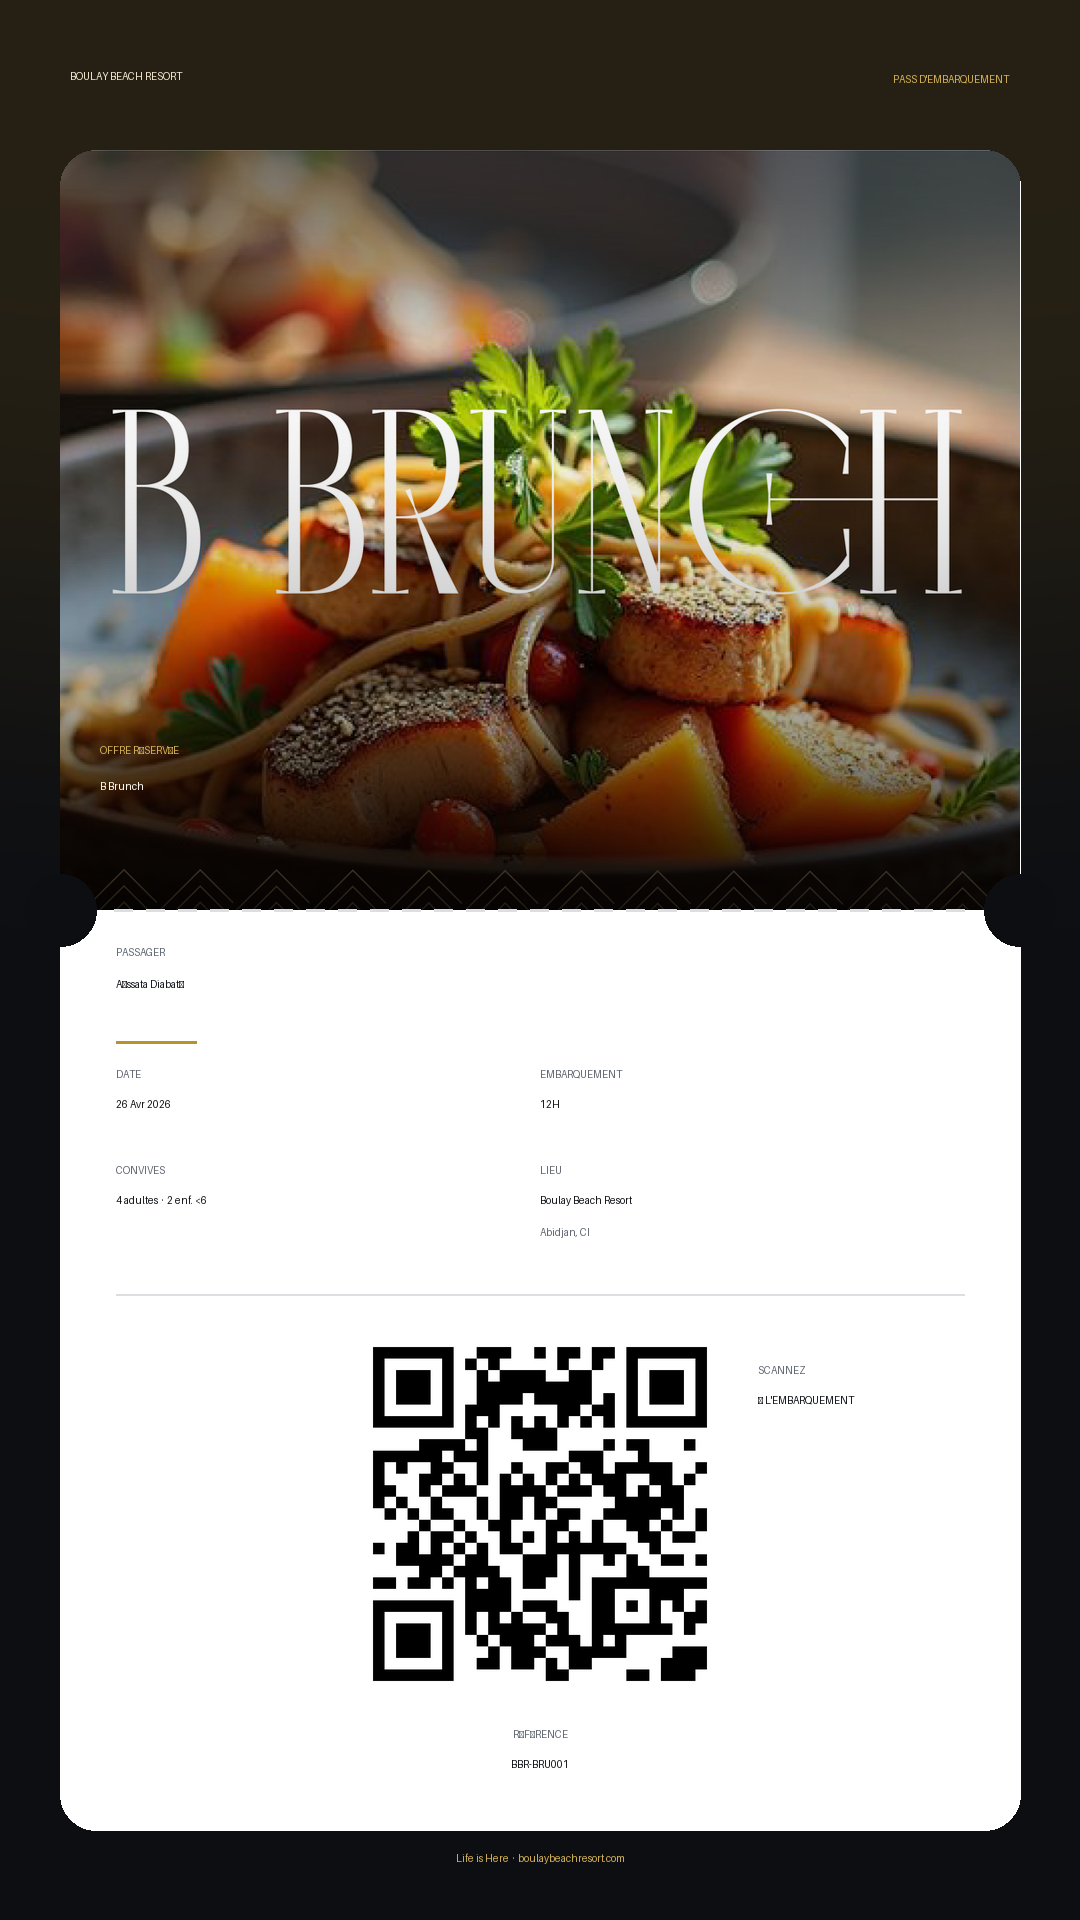
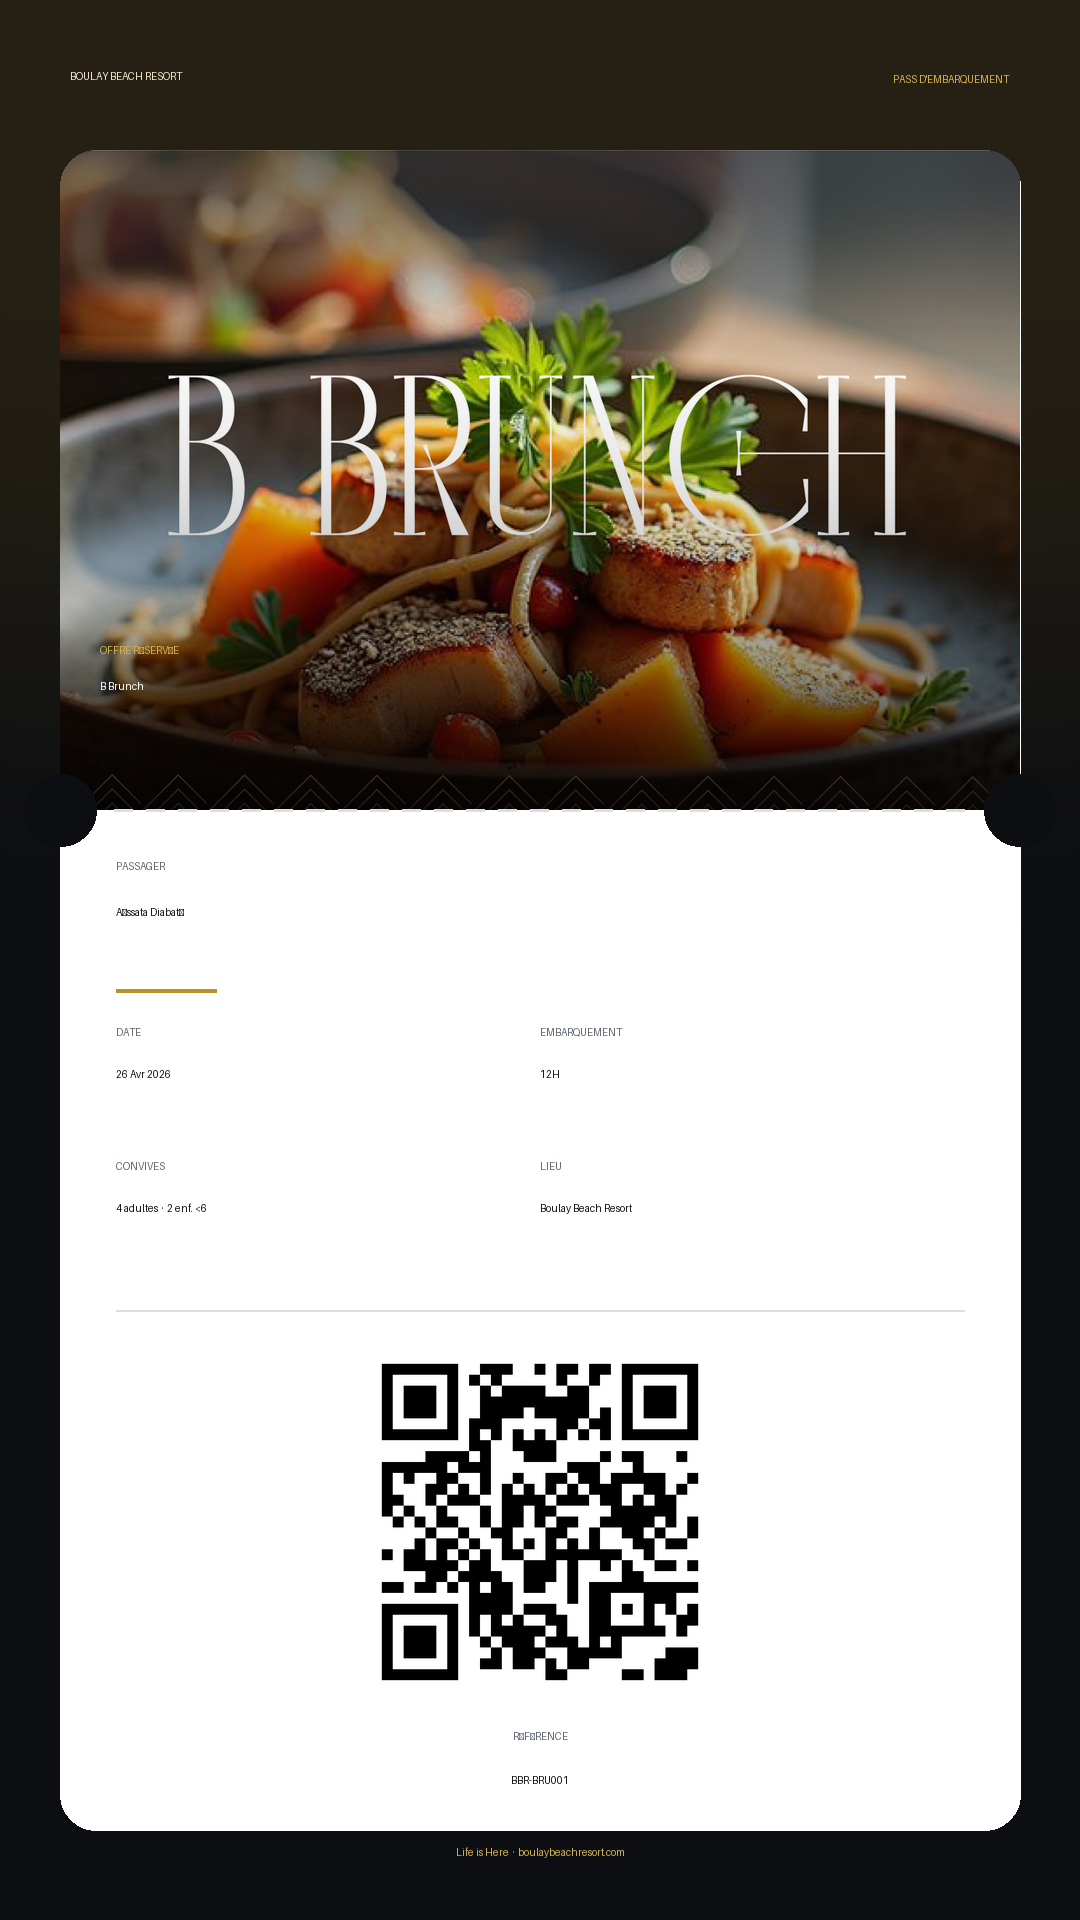
auto-commit for 6c909438-8332-4438-b5bc-30933de4cf97

diff --git a/backend/server.py b/backend/server.py
@@ -880,13 +880,13 @@ def make_ticket_image(
             return ImageFont.load_default()
 
     f_brand  = font(30, bold=True)
-    f_kicker = font(24, bold=True)
-    f_label  = font(22)
+    f_kicker = font(26, bold=True)
+    f_label  = font(30, bold=True)
     f_title  = font(58, bold=True)
     f_title_sm = font(46, bold=True)
-    f_value  = font(34, bold=True)
-    f_small  = font(26)
-    f_mono   = font(30, bold=True)
+    f_value  = font(50, bold=True)
+    f_small  = font(40, bold=True)
+    f_mono   = font(46, bold=True)
 
     def round_rect(xy, radius, fill, outline=None, width=1):
         draw.rounded_rectangle(xy, radius=radius, fill=fill,
@@ -906,7 +906,7 @@ def make_ticket_image(
     round_rect((CX, CY, CX + CW, CY + CH), R, CARD)
 
     # ---- Hero image (top of card) ----
-    HERO_H = 760
+    HERO_H = 660
 
     # Build hero with rounded top corners
     hero_layer = None
@@ -1029,21 +1029,21 @@ def make_ticket_image(
 
     # ---- Info block (between perforation and QR) ----
     INFO_PAD = 56
-    info_top = PERF_Y + 36
+    info_top = PERF_Y + 50
 
     # Passenger row (full width)
     draw.text((CX + INFO_PAD, info_top), "PASSAGER" if lang == "fr" else "PASSENGER",
               fill=SUB, font=f_label)
-    draw.text((CX + INFO_PAD, info_top + 32), (owner_name or "—"),
+    draw.text((CX + INFO_PAD, info_top + 46), (owner_name or "—"),
               fill=INK, font=f_value)
 
     # Thin gold accent under passenger
-    accent_y = info_top + 96
+    accent_y = info_top + 130
     draw.line([(CX + INFO_PAD, accent_y),
-               (CX + INFO_PAD + 80, accent_y)], fill=GOLD, width=3)
+               (CX + INFO_PAD + 100, accent_y)], fill=GOLD, width=4)
 
     # 2-column grid: Date / Embarquement, Convives / Lieu
-    grid_top = accent_y + 26
+    grid_top = accent_y + 36
     col_w = (CW - 2 * INFO_PAD) // 2
     col1_x = CX + INFO_PAD
     col2_x = CX + INFO_PAD + col_w
@@ -1060,15 +1060,15 @@ def make_ticket_image(
         date_label = date_iso or "—"
 
     draw.text((col1_x, grid_top), "DATE", fill=SUB, font=f_label)
-    draw.text((col1_x, grid_top + 30), date_label, fill=INK, font=f_value)
+    draw.text((col1_x, grid_top + 42), date_label, fill=INK, font=f_value)
 
     draw.text((col2_x, grid_top), "EMBARQUEMENT" if lang == "fr" else "BOARDING",
               fill=SUB, font=f_label)
-    draw.text((col2_x, grid_top + 30), (boat_time or "—"),
+    draw.text((col2_x, grid_top + 42), (boat_time or "—"),
               fill=INK, font=f_value)
 
     # Convives / Lieu row
-    grid_top2 = grid_top + 96
+    grid_top2 = grid_top + 134
     if composition:
         a = int(composition.get("adults") or 0)
         cp = int(composition.get("children_paid") or 0)
@@ -1088,16 +1088,15 @@ def make_ticket_image(
 
     draw.text((col1_x, grid_top2), "CONVIVES" if lang == "fr" else "GUESTS",
               fill=SUB, font=f_label)
-    draw.text((col1_x, grid_top2 + 30), ps_text, fill=INK, font=f_small)
+    draw.text((col1_x, grid_top2 + 42), ps_text, fill=INK, font=f_small)
 
     draw.text((col2_x, grid_top2), "LIEU" if lang == "fr" else "VENUE",
               fill=SUB, font=f_label)
-    draw.text((col2_x, grid_top2 + 30), "Boulay Beach Resort",
+    draw.text((col2_x, grid_top2 + 42), "Boulay Beach Resort",
               fill=INK, font=f_small)
-    draw.text((col2_x, grid_top2 + 62), "Abidjan, CI", fill=SUB, font=f_small)
 
     # Divider before QR
-    div_y = grid_top2 + 130
+    div_y = grid_top2 + 150
     draw.line([(CX + INFO_PAD, div_y), (CX + CW - INFO_PAD, div_y)],
               fill=DIVIDER, width=2)
 
@@ -1109,32 +1108,23 @@ def make_ticket_image(
     qr.add_data(qr_payload)
     qr.make(fit=True)
     qr_img = qr.make_image(fill_color="black", back_color="white").convert("RGB")
-    QR_SIZE = 380
+    QR_SIZE = 360
     qr_img = qr_img.resize((QR_SIZE, QR_SIZE), Image.LANCZOS)
-    qr_y = div_y + 30
+    qr_y = div_y + 32
     qr_x = (W - QR_SIZE) // 2
     img.paste(qr_img, (qr_x, qr_y))
 
-    # "Scannez à l'embarquement" hint next to QR (right side)
-    hint_x = qr_x + QR_SIZE + 28
-    hint_y = qr_y + 40
-    if hint_x + 200 < CX + CW - 20:
-        draw.text((hint_x, hint_y), "SCANNEZ" if lang == "fr" else "SCAN",
-                  fill=SUB, font=f_label)
-        draw.text((hint_x, hint_y + 30), "À L'EMBARQUEMENT" if lang == "fr" else "AT BOARDING",
-                  fill=INK, font=f_kicker)
-
     # Booking ID under QR (monospace-style)
-    bid_y = qr_y + QR_SIZE + 24
+    bid_y = qr_y + QR_SIZE + 28
     label = "RÉFÉRENCE" if lang == "fr" else "REFERENCE"
     bb = draw.textbbox((0, 0), label, font=f_label)
     draw.text(((W - (bb[2] - bb[0])) / 2, bid_y), label, fill=SUB, font=f_label)
     bb2 = draw.textbbox((0, 0), ref_code or "", font=f_mono)
-    draw.text(((W - (bb2[2] - bb2[0])) / 2, bid_y + 30),
+    draw.text(((W - (bb2[2] - bb2[0])) / 2, bid_y + 44),
               ref_code or "", fill=INK, font=f_mono)
 
     # ---- Signature below card ----
-    sig_y = CY + CH + 22
+    sig_y = CY + CH + 16
     sig_text = "Life is Here  ·  boulaybeachresort.com"
     bb = draw.textbbox((0, 0), sig_text, font=f_small)
     draw.text(((W - (bb[2] - bb[0])) / 2, sig_y),
